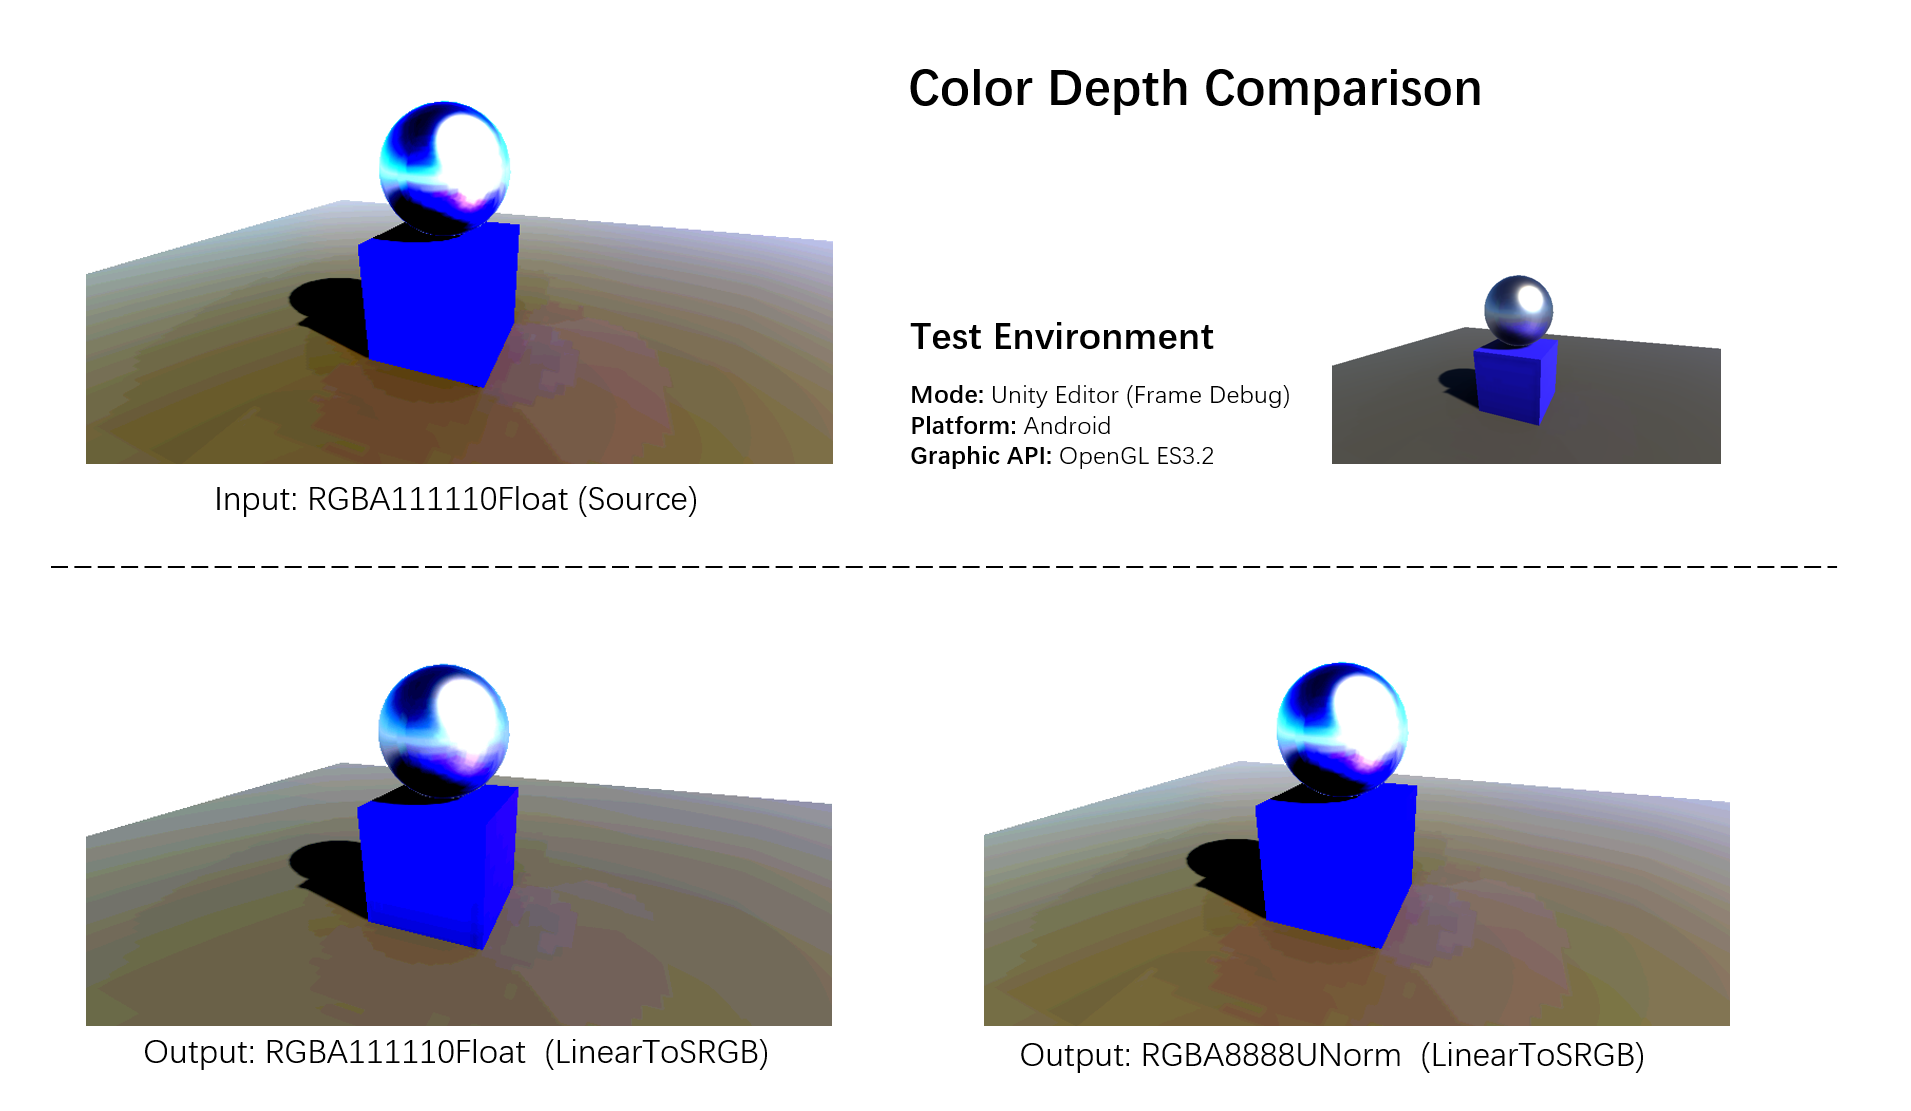
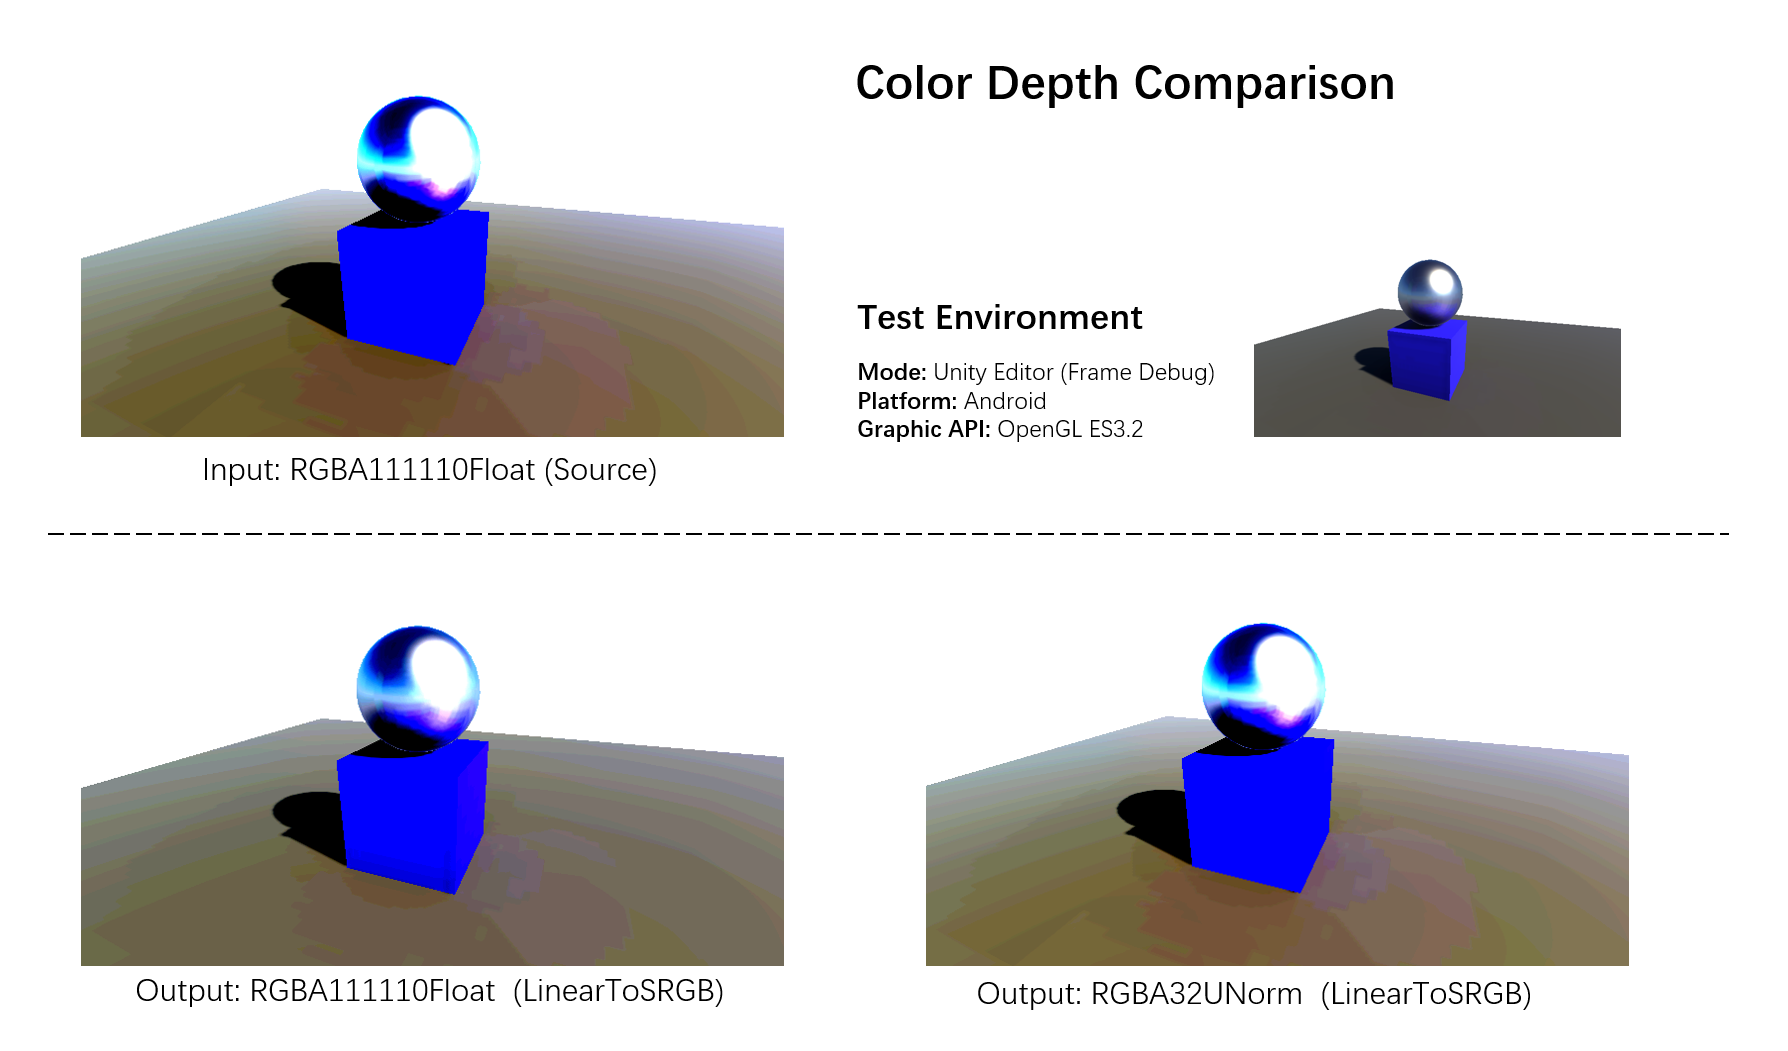
Update Readme

diff --git a/README.md b/README.md
@@ -23,18 +23,26 @@ Unity リニア の色空間にある UI 画像の透明さをなおす為に作
 * Universal RP: com.unity.ugui@1.0.0  
 
 ### Feature:
-* 针对 Game 视图，对 UI 透明度进行矫正，使其和 Ps 里的不透明度保持一致。
+* In our Render Pipeline,the UI images have the same opacity with images which are in the PhotoShop.
 
 ![Opacity_Comparison](./Readme/Opacity_Comparison.png)
 
 ### Update:
-* 修复了 Reflection Probe 烘焙错误;
-* 修复了 scene 视图 UI 颜色错误;
-* 增加了对非 post-Processing 环境下的校色支持;
-* 改善了 校色后的 3D 渲染色阶失真。
+* 11 / 05 / 2021:  
+Supported correct UI alpha gamma in case of the Post-Processing;  
+Fixed the wrong effects of baked Reflection Probe;  
+Fixed the Gamma in Scene view;  
+  
+  
+* 11 / 06 / 2021:   
+  supported correct UI alpha gamma in case of FXAA;  
+ 
+  
+* 11 / 12 / 2021:  
+  Fixed the Color Depth resolution of 3D render.
 
 ### Plan:
-* 修复 scene 视图 Reflection Probe 显示不正确;
+* To fix the wrong effects of Reflection Probe in scene view.
 
 # Pipeline Flowchart
 ![UI_RenderPipeline](./Readme/UI_RenderPipeline.png)
